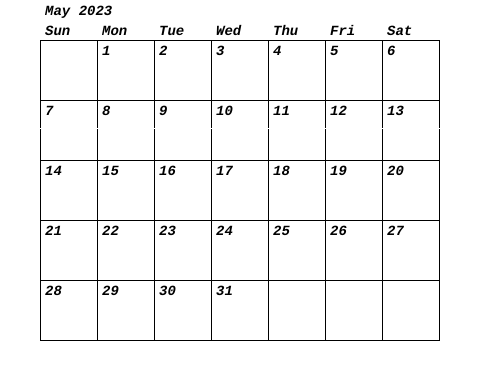
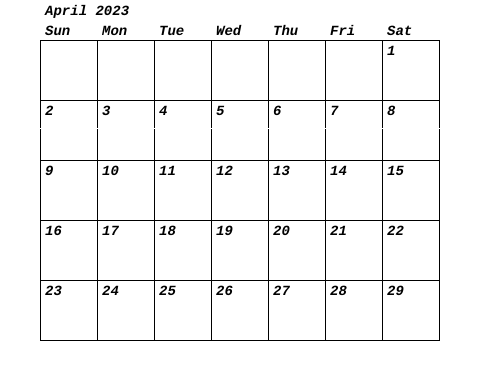
updated calendar README

diff --git a/cmd/calendar/README.md b/cmd/calendar/README.md
@@ -1,0 +1,42 @@
+# Calendar Image Generator
+
+This command-line tool generates a calendar image for a given month and year. By default, it generates a calendar for the current month and year if no arguments are provided.
+
+## Usage
+
+To build and run the tool, execute the following command:
+
+```bash
+go build -o calendar
+```
+
+This will create an executable named `calendar`.
+
+### Generating Calendar Image
+
+To generate a calendar image for the current month and year, run:
+
+```bash
+./calendar_generator
+```
+
+To generate a calendar image for a specific month and year, pass the `-month` and `-year` flags:
+
+```bash
+./calendar -month 5 -year 2023
+```
+
+This will create a calendar image for May 2023.
+
+## Flags
+
+The following flags are available:
+
+- `-month`: The month for which the calendar should be generated (1-12). Defaults to the current month.
+- `-year`: The year for which the calendar should be generated (e.g., 2023). Defaults to the current year.
+
+## Output
+
+The tool generates a PNG image named `calendar.png` in the same directory. This image contains the calendar grid for the specified month and year, with labels for the days of the week, the month, and the year.
+
+![Calendar](calendar.png)
